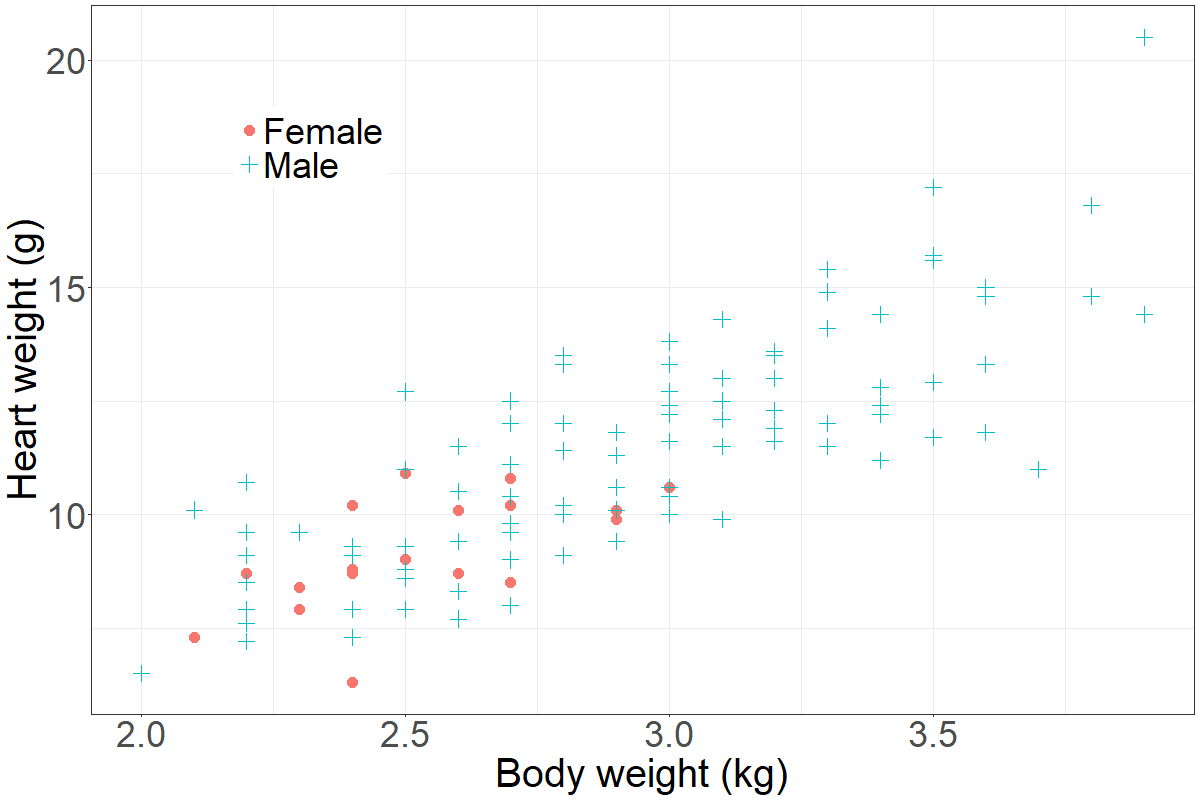
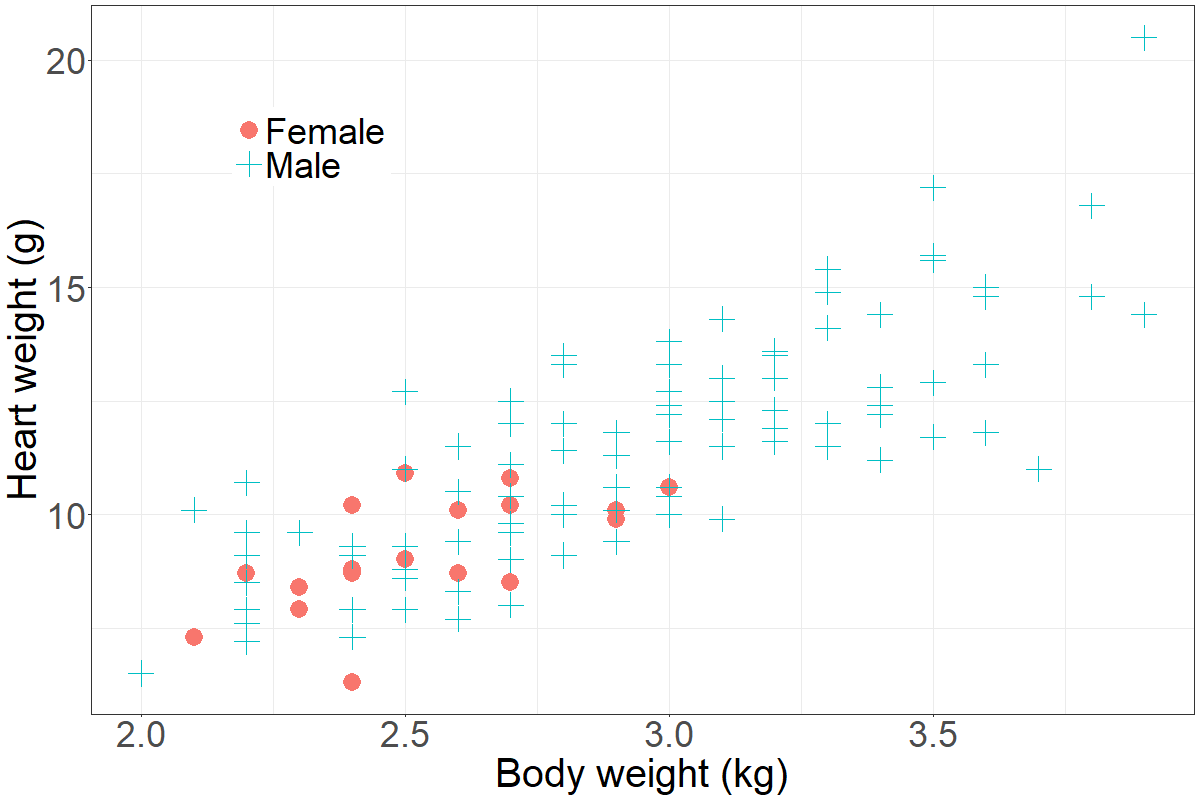
Image updates

diff --git a/paper.md b/paper.md
@@ -129,7 +129,7 @@ effects. See vignettes for additional analysis on this and other data.
 # ```{r example_plot, echo=FALSE}
 # png('./vignettes/cat_overview.png', width=1200, height=800)
 # ggplot() +
-#   geom_point(aes(x=Bwt, y=Hwt, col=Sex,shape = Sex),data=subcats, size=5) +
+#   geom_point(aes(x=Bwt, y=Hwt, col=Sex,shape = Sex),data=subcats, size=8) +
 #   theme_bw() +
 #   theme(axis.title = element_text(size=40),
 #         axis.text = element_text(size=36),
